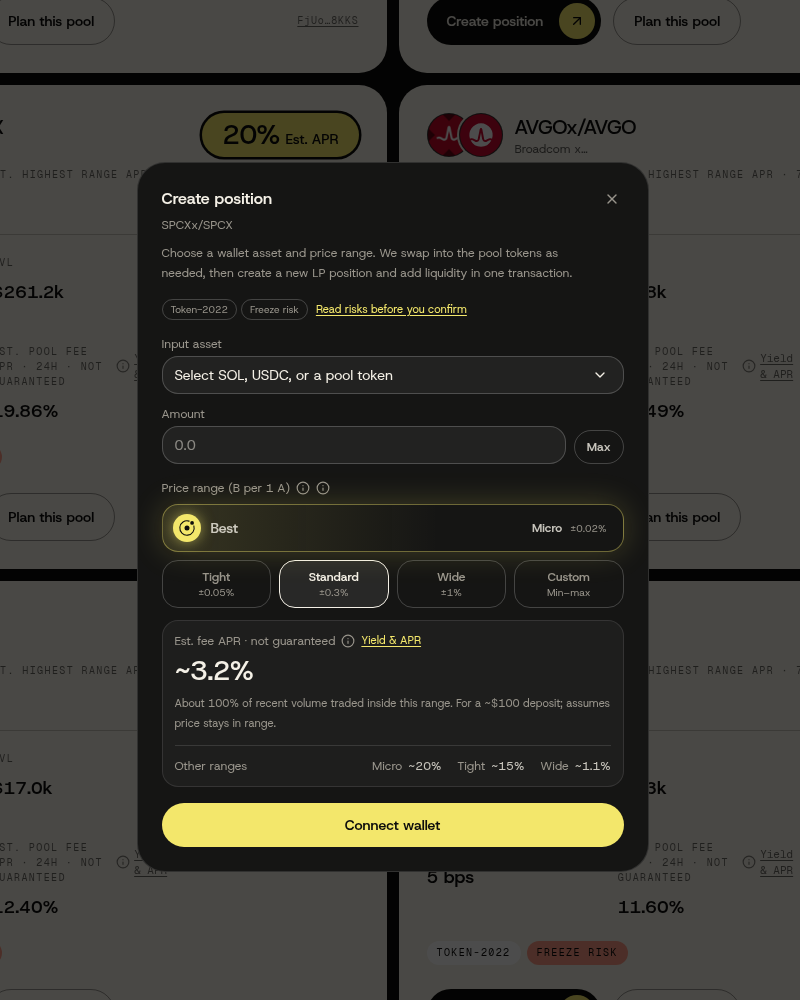
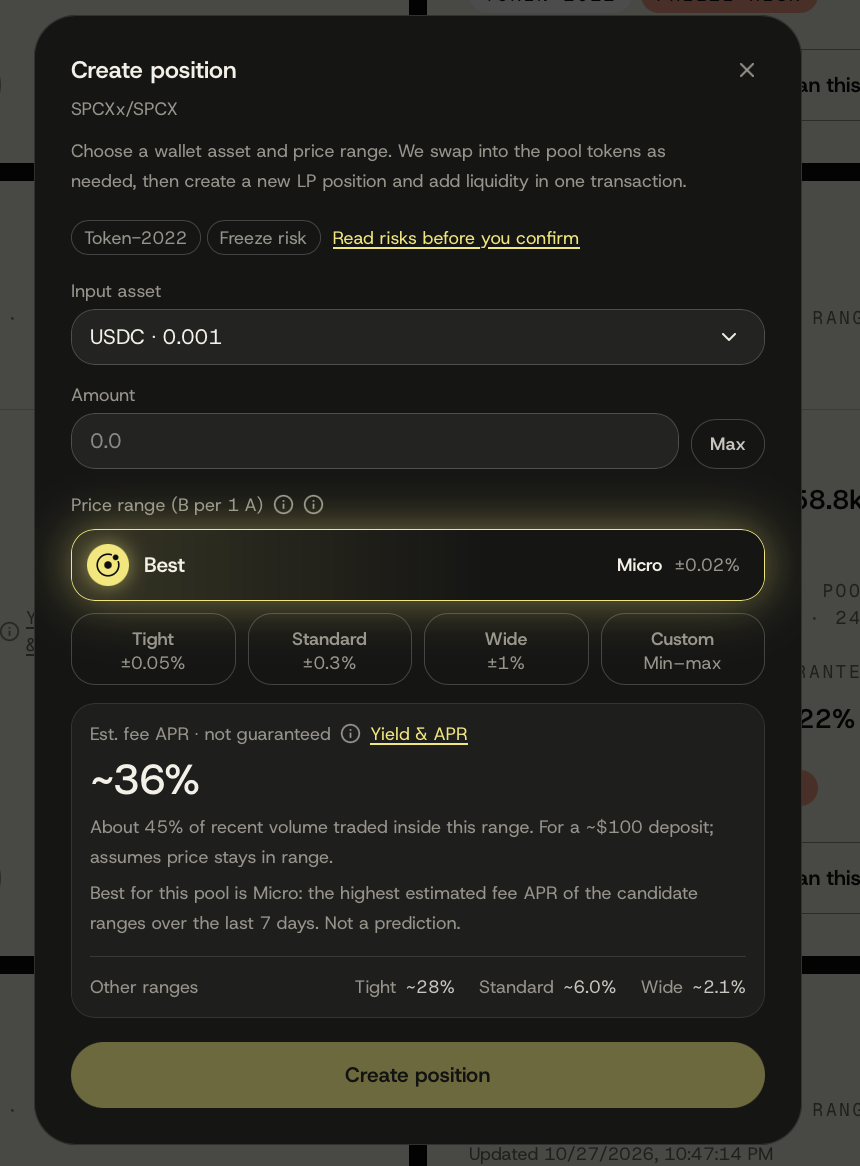
content(blog): xstocks-xpoints guide v2 — intro sections + step image refresh
Add What is xStocks / Why xPoints matter sections after the lede, swap
create-position and performance screenshots, drop stacked step12/13
duplicates, and add performance detail shot. Content and assets only.

diff --git a/content/blog/xstocks-xpoints.md b/content/blog/xstocks-xpoints.md
@@ -22,6 +22,33 @@ Source: [x.com/xStocksFi/status/2033952074463916318](https://x.com/xStocksFi/sta
 
 **Our referral link:** [https://defi.xstocks.fi/points?ref=SOFINANCE](https://defi.xstocks.fi/points?ref=SOFINANCE) (you get a 20% points boost; we get 20% of your points, per the xPoints FAQ)
 
+## What is xStocks
+
+- **xStocks** are tokenized U.S. stocks and ETFs: each token is designed to be **1:1 backed** by the underlying equity held with regulated custodians. They give **price exposure**, not classic shareholder voting or cash dividends (dividend economics are passed through via a rebasing / multiplier mechanism).
+- **Issuer:** Backed Assets (JE) Limited (Jersey). The product line is built by **Backed Finance**; Kraken’s parent **Payward** acquired Backed Finance (deal announced Dec 2025; change of control around Jan 2026), so xStocks now sits inside the Payward / Kraken group.
+- **Chains:** issued / withdrawable as onchain tokens on **Solana, Ethereum, TON, and Ink** (per Kraken’s FAQ). Once in a self-custody wallet they trade like other tokens.
+- **Where people use them:** major CEX distribution from day one on **Kraken** and **Bybit**; on Solana they show up in wallets (Phantom, Solflare) and DeFi (AMMs, lending / collateral such as Kamino). Tickers end in **x** — e.g. $AAPLx, $NVDAx, $SPCXx, $SPYx.
+- **Scale (public snapshots, not our claims):** Solana’s case study (as of **19 Jan 2026**) cited **>$3B** total onchain transaction volume, **>$517M** DEX volume, and **>57k** unique holders. CoinDesk (10 Mar 2026) reported xStocks saying **>$25B** combined transaction volume in the first eight months. Kraken’s FAQ (updated **18 Sep 2026**) lists **131** xStocks (100 stocks, 27 ETFs, 4 specialist).
+- **Who can use them:** aimed at eligible **non-U.S.** users; not available in the U.S. (or to U.S. persons), and typically also blocked in Canada, the UK, Australia, and sanctioned jurisdictions. Always check the issuer / venue rules for your location.
+- **xPoints** is xStocks’ onchain activity program (not run by SoFinance). It tracks registered-wallet activity — hold, lend, **provide liquidity** (highest published tier), quests, referrals — and updates daily. Official framing: points help determine your **share of future rewards**.
+
+## Why xPoints matter / airdrop
+
+In crypto, a live points program that scores real onchain usage and talks about a **“share of future rewards”** is **widely expected** to convert into a **future airdrop or ecosystem token**. That is the usual market read — and the reason LPs are farming the highest tier now.
+
+What is on the record:
+
+- xStocks’ own launch post (10 Mar 2026) frames xPoints as incentives so **“the community helping build it should grow with it.”**
+- The points UI copy says earned points **“will be used to determine your share of future rewards.”**
+- CoinDesk coverage the same week called it a points program **hinting at a possible ecosystem token**, while noting **no official token announcement**.
+- The program is live (wallet registration, daily updates, LP as highest tier, referral boosts, anti-sybil cleanup). Partner writeups (e.g. Solflare) still stress points **have no monetary value** and **don’t guarantee** a future reward.
+
+**Bottom line for readers:** there is a **strong chance** — and the market **widely expects** — that xPoints convert into a **future airdrop**. **Not confirmed by xStocks.** No amount, date, or token is promised.
+
+How that ties to SoFinance: under the published ladder, **providing liquidity** is the highest activity tier. We are a self-custodial tool that opens a **same-stock** LP (Backpack stock token × matching xStock); **SoFinance builds the Raydium LP under the hood**, the position NFT lands in your wallet, and you can **collect trading fees** while in range — separate from points. Confirm eligible activity on the xPoints dashboard after you open. Risks: [/docs/risks](https://sofinancelab.xyz/docs/risks).
+
+**Our referral (disclosed):** https://defi.xstocks.fi/points?ref=SOFINANCE
+
 ## 1. Register your wallet for xPoints
 
 Open our referral link and click **Connect Wallet**:
@@ -62,31 +89,27 @@ Click **Plan this pool** to see an estimate for your amount and days (based on h
 
 ![Plan — amount, days, and chart](/blog/xstocks-xpoints/steps/step10_plan_amount_input_and_chart.png)
 
-![Plan outcome — Create a position in this pool](/blog/xstocks-xpoints/steps/step12_plan_outcome_panel_cta.png)
-
 ## 6. Create position
 
-Or click **Create position** on the pair card. Choose an input asset (**SOL**, **USDC**, or a pool token), an amount, and a range (**Best** is the suggested default). Then continue.
+Or click **Create position** on the pair card. Choose an input asset (**SOL**, **USDC**, or a pool token), an amount, and a range (**Best** is the suggested default — here **Micro ±0.02%**). Then continue.
 
-![Create position — asset, amount, Best range](/blog/xstocks-xpoints/steps/step08_create_position_modal_spcx.png)
-
-![Create position from Plan CTA](/blog/xstocks-xpoints/steps/step13_plan_cta_opens_create_position_modal.png)
+![Create position — SPCXx/SPCX, Best = Micro ±0.02%, ~36% est. fee APR (not guaranteed; one pool snapshot)](/blog/xstocks-xpoints/steps/step08_create_position_modal_spcx.png)
 
 ## 7. Approve once in your wallet
 
 Approve the transaction in your wallet. SoFinance swaps as needed and **builds the Raydium LP position for you**; the position NFT lands in your wallet.
 
-<!-- TODO: wallet-approval screenshot coming — using create-position modal (step13) for now -->
-
-![Create position — ready to approve in wallet](/blog/xstocks-xpoints/steps/step13_plan_cta_opens_create_position_modal.png)
+<!-- TODO: wallet-approval screenshot — do not reuse create-position modal (LJ: no duplicate/continuation shots) -->
 
 ## 8. Track it in the app
 
 Open [/app](https://sofinancelab.xyz/app). Under **My positions** / **Performance** you can add liquidity, compound collected trading fees, or withdraw — you sign every time.
 
-![My positions](/blog/xstocks-xpoints/steps/step04_app_landing_positions_empty.png)
+Numbers below are **this one position’s figures only** (not a promise or forecast).
 
-![Performance tab](/blog/xstocks-xpoints/steps/step14_position_performance_empty.png)
+![My positions + Performance — this position: 30.47 holding days, est. trading-fee APR 20.29%, fees 0.598370 SPCX](/blog/xstocks-xpoints/steps/step14_positions_performance_full.png)
+
+![Performance detail — same position: results, exit estimate, 30D fee APR chart](/blog/xstocks-xpoints/steps/step14b_performance_detail.png)
 
 ## 9. Check your xPoints
 
